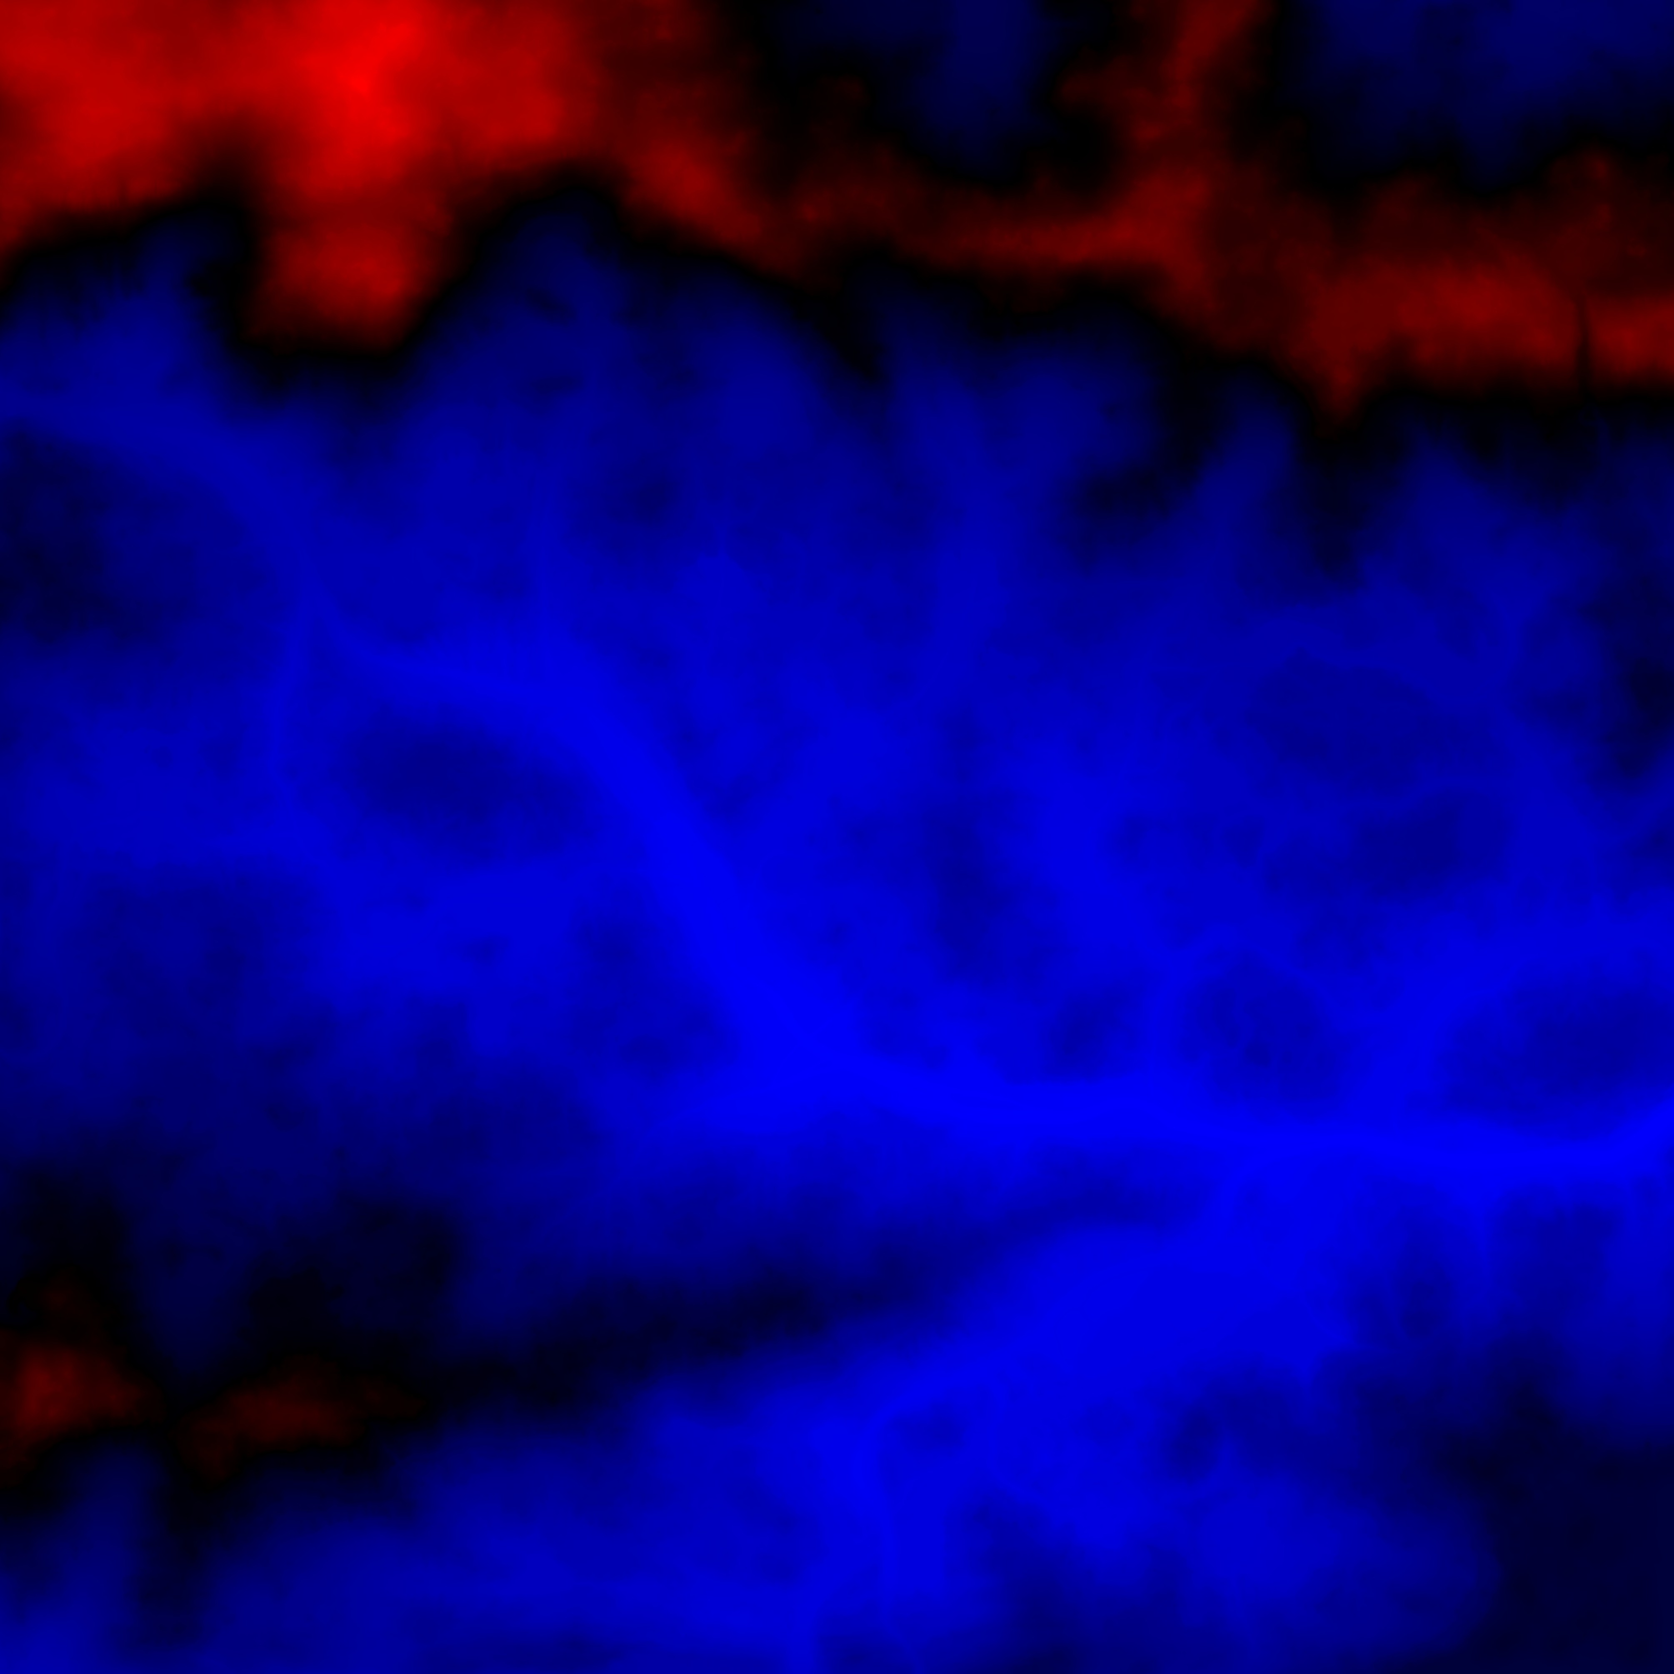
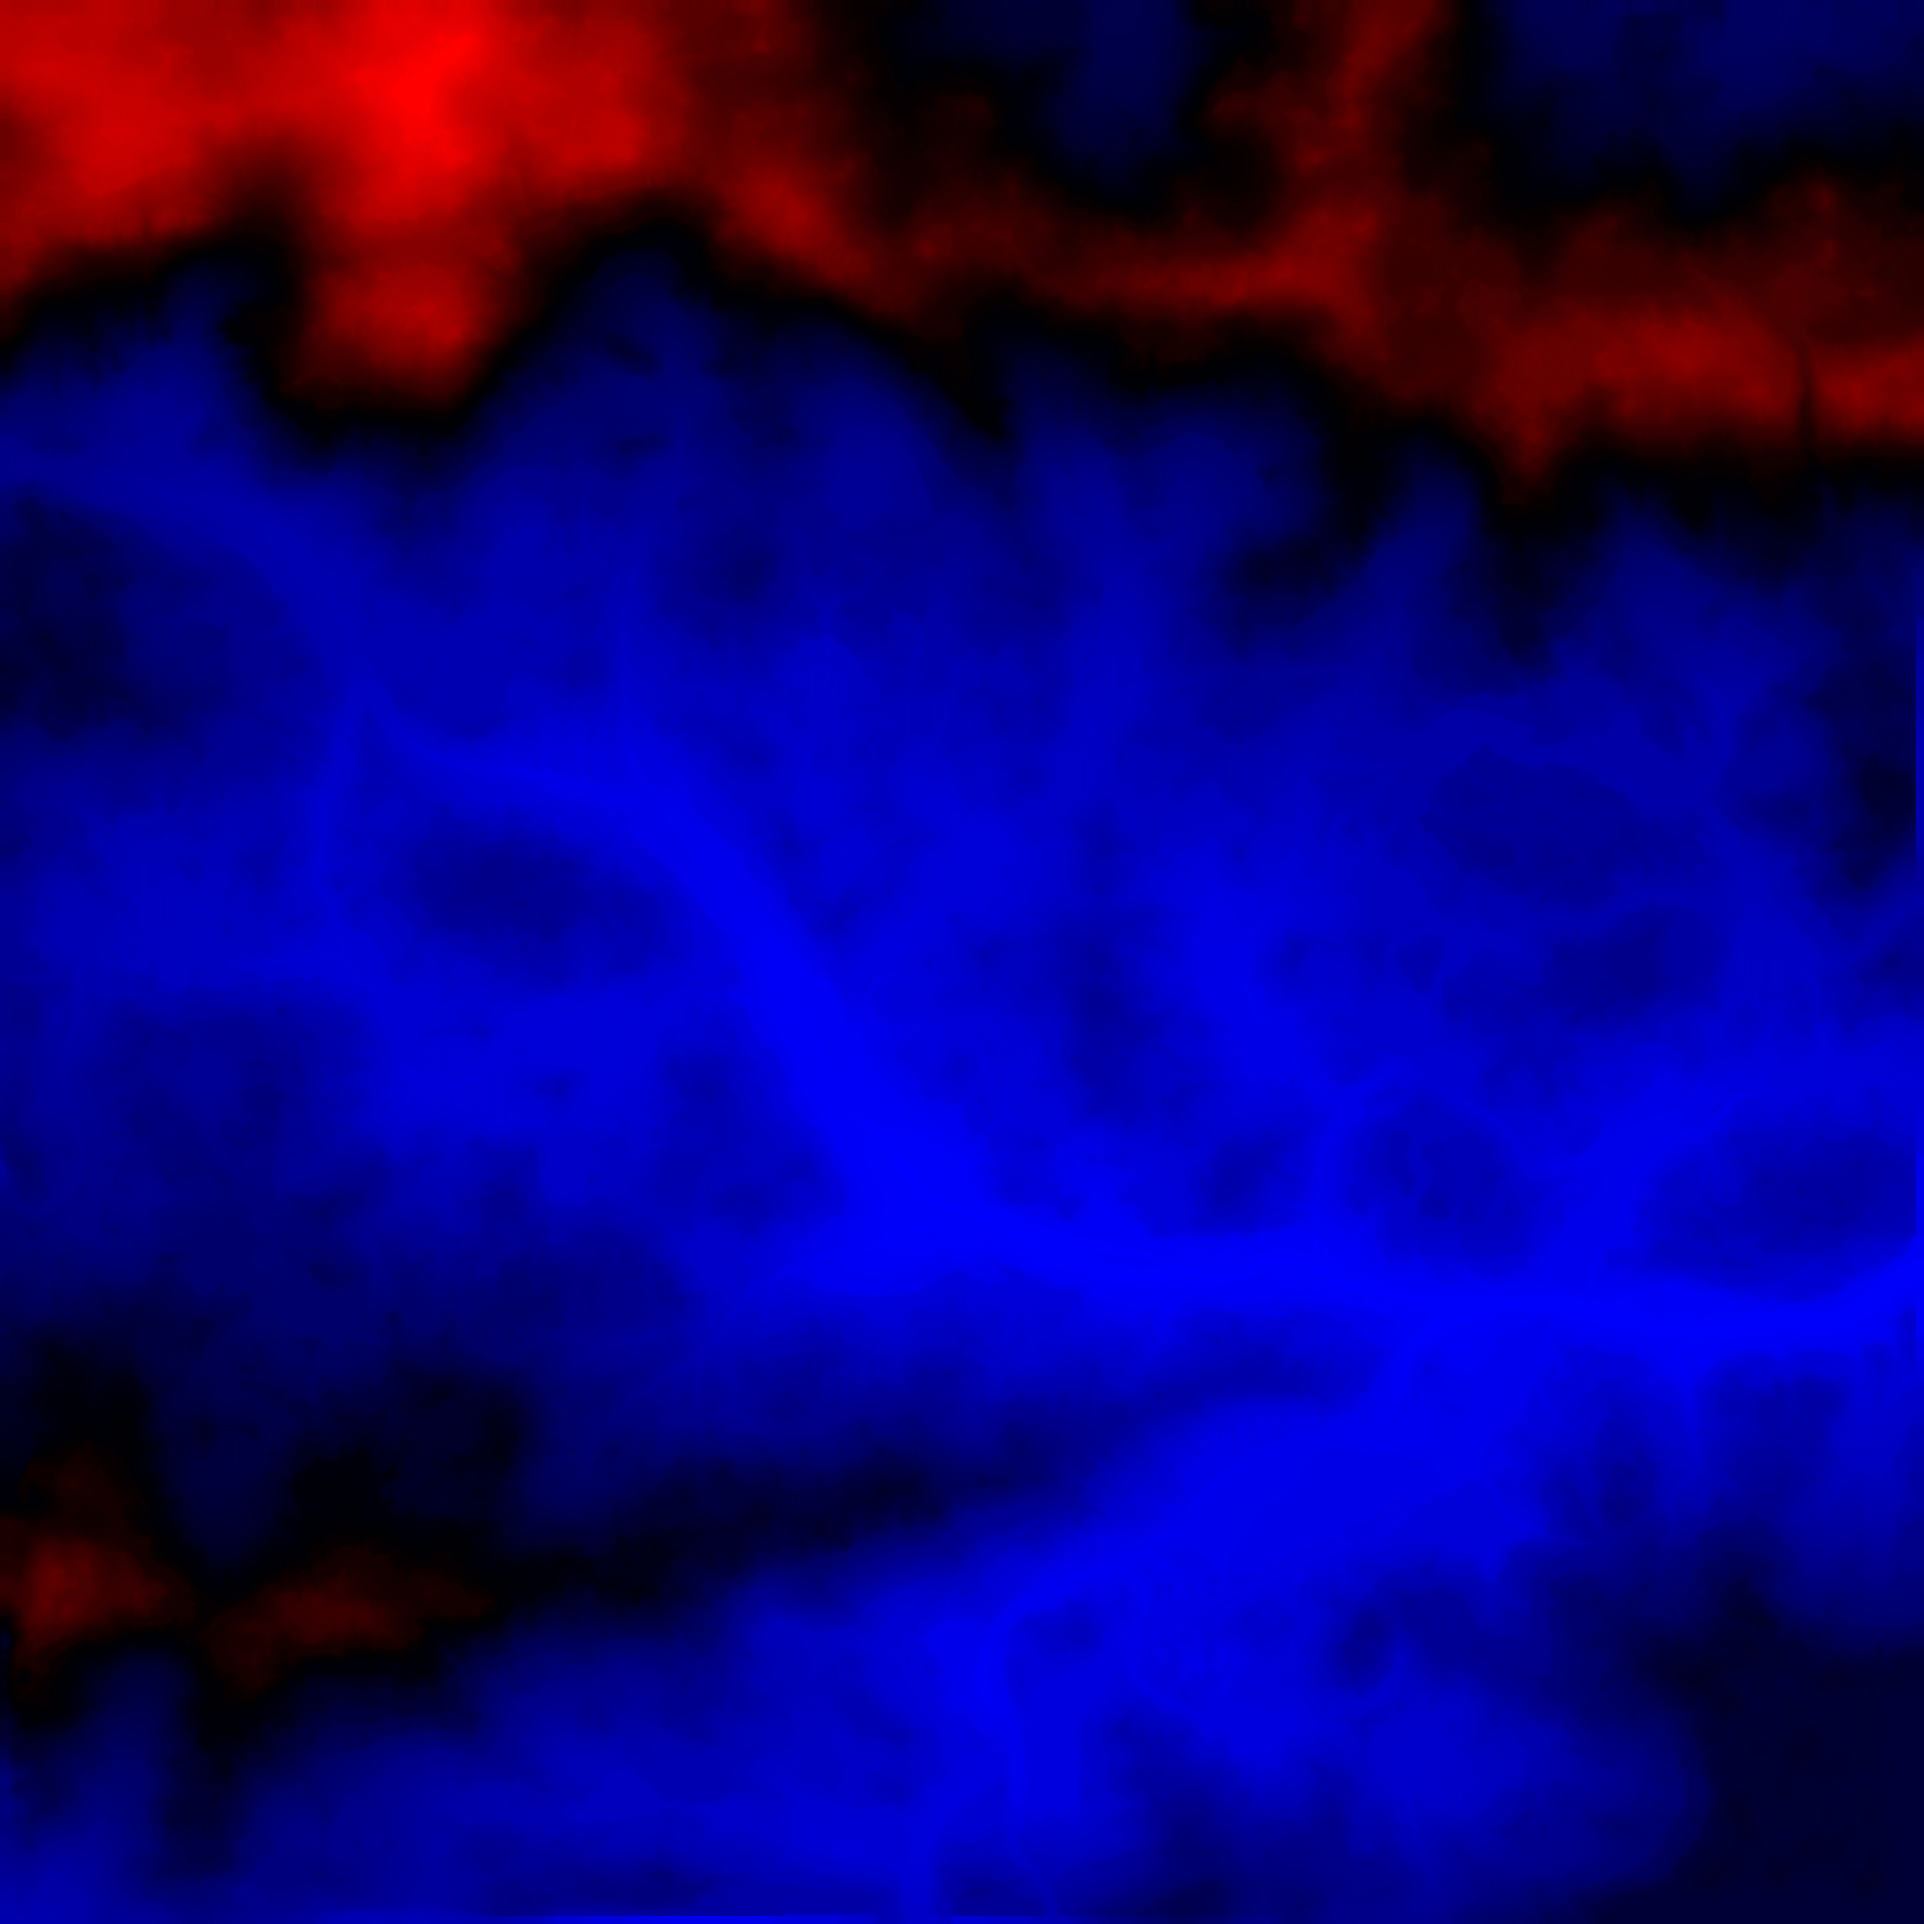
Fixed Kohat heightmap

diff --git a/js/data.js b/js/data.js
@@ -12,7 +12,7 @@ var maps = [
     ['Goose Bay', 4065, 0.2],
     ['Gorodok', 4340, 0.13],
     ['Kamdesh', 4032, 0.2],
-    ['Kohat', 4017, 0.777],
+    ['Kohat', 4617, 1],
     ['Kokan', 2496, 0.01],
     ['Lashkar', 4334, 0.28],
     ['Logar', 1761, 0.14],
